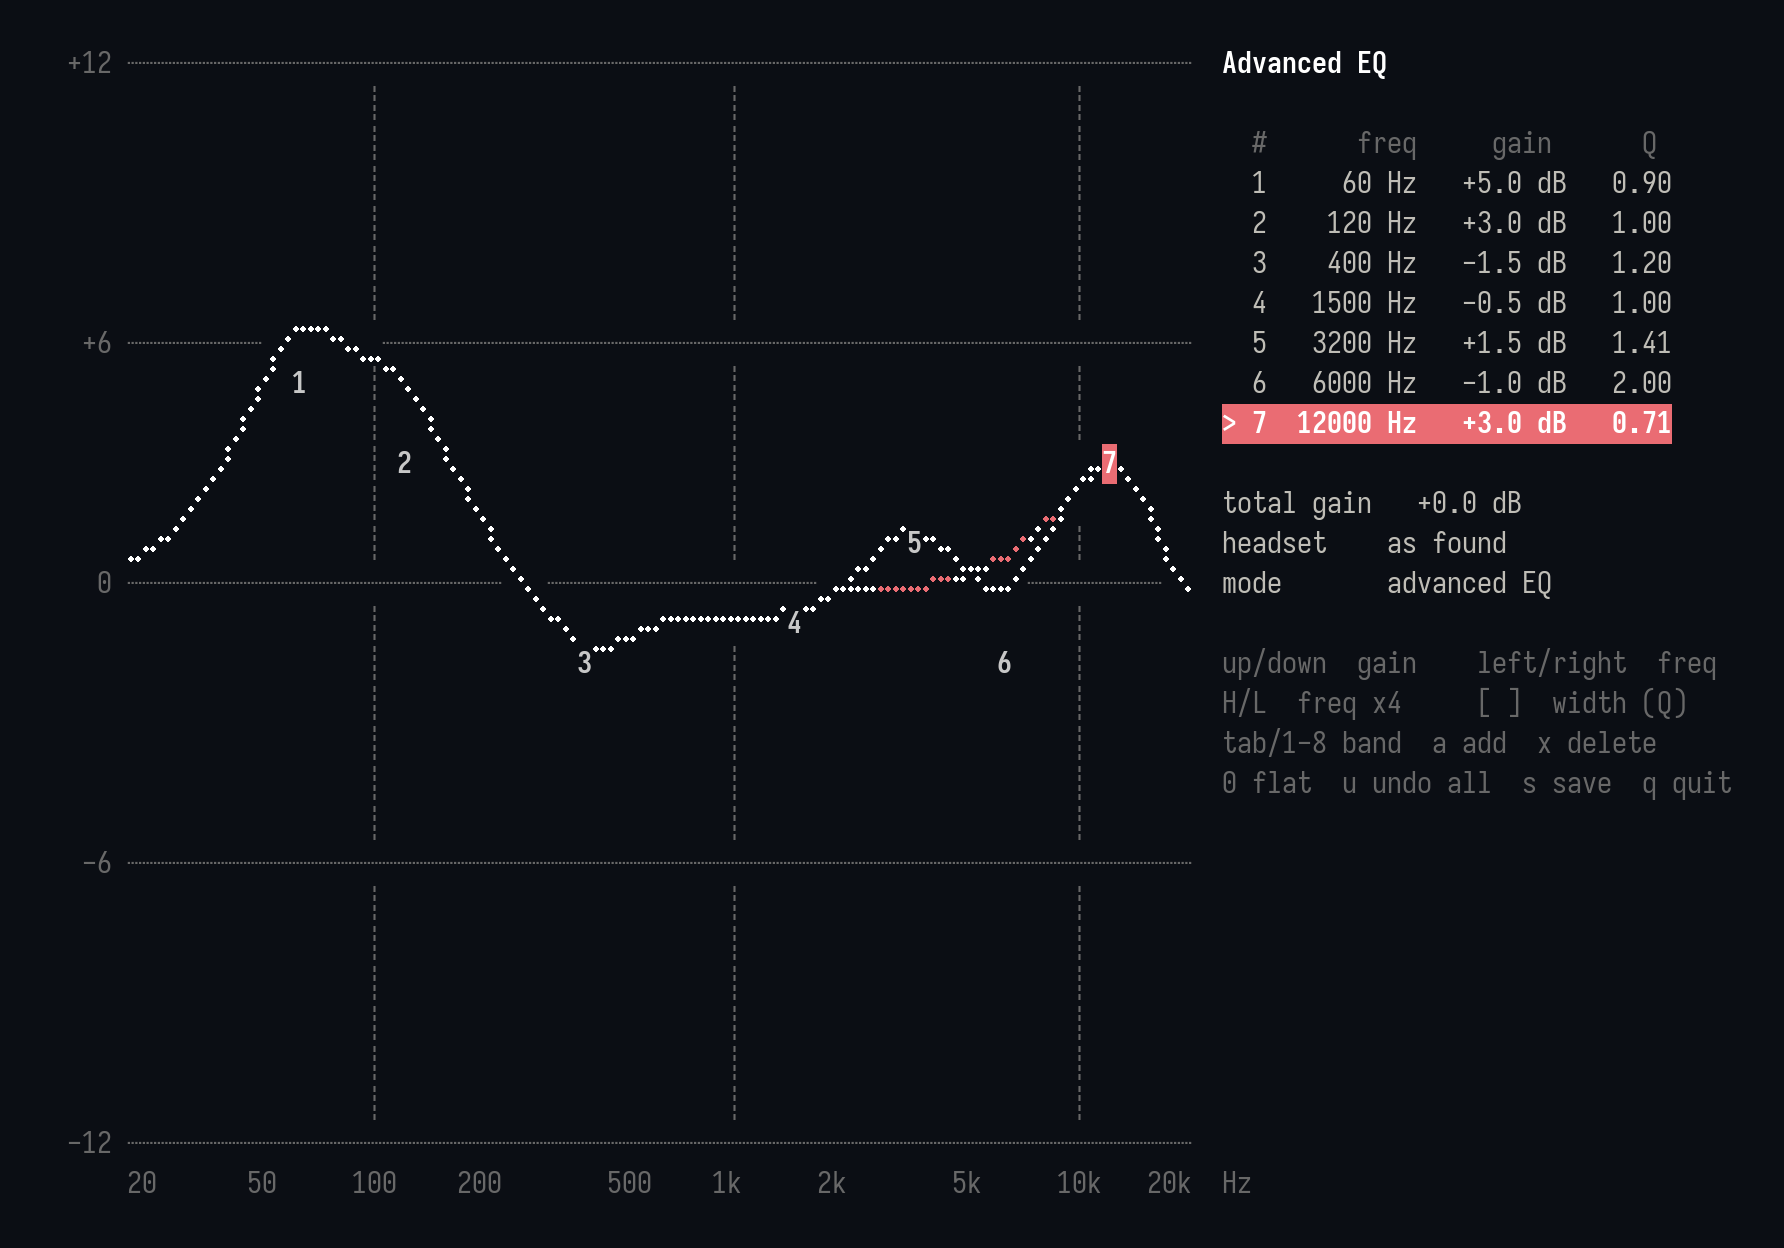
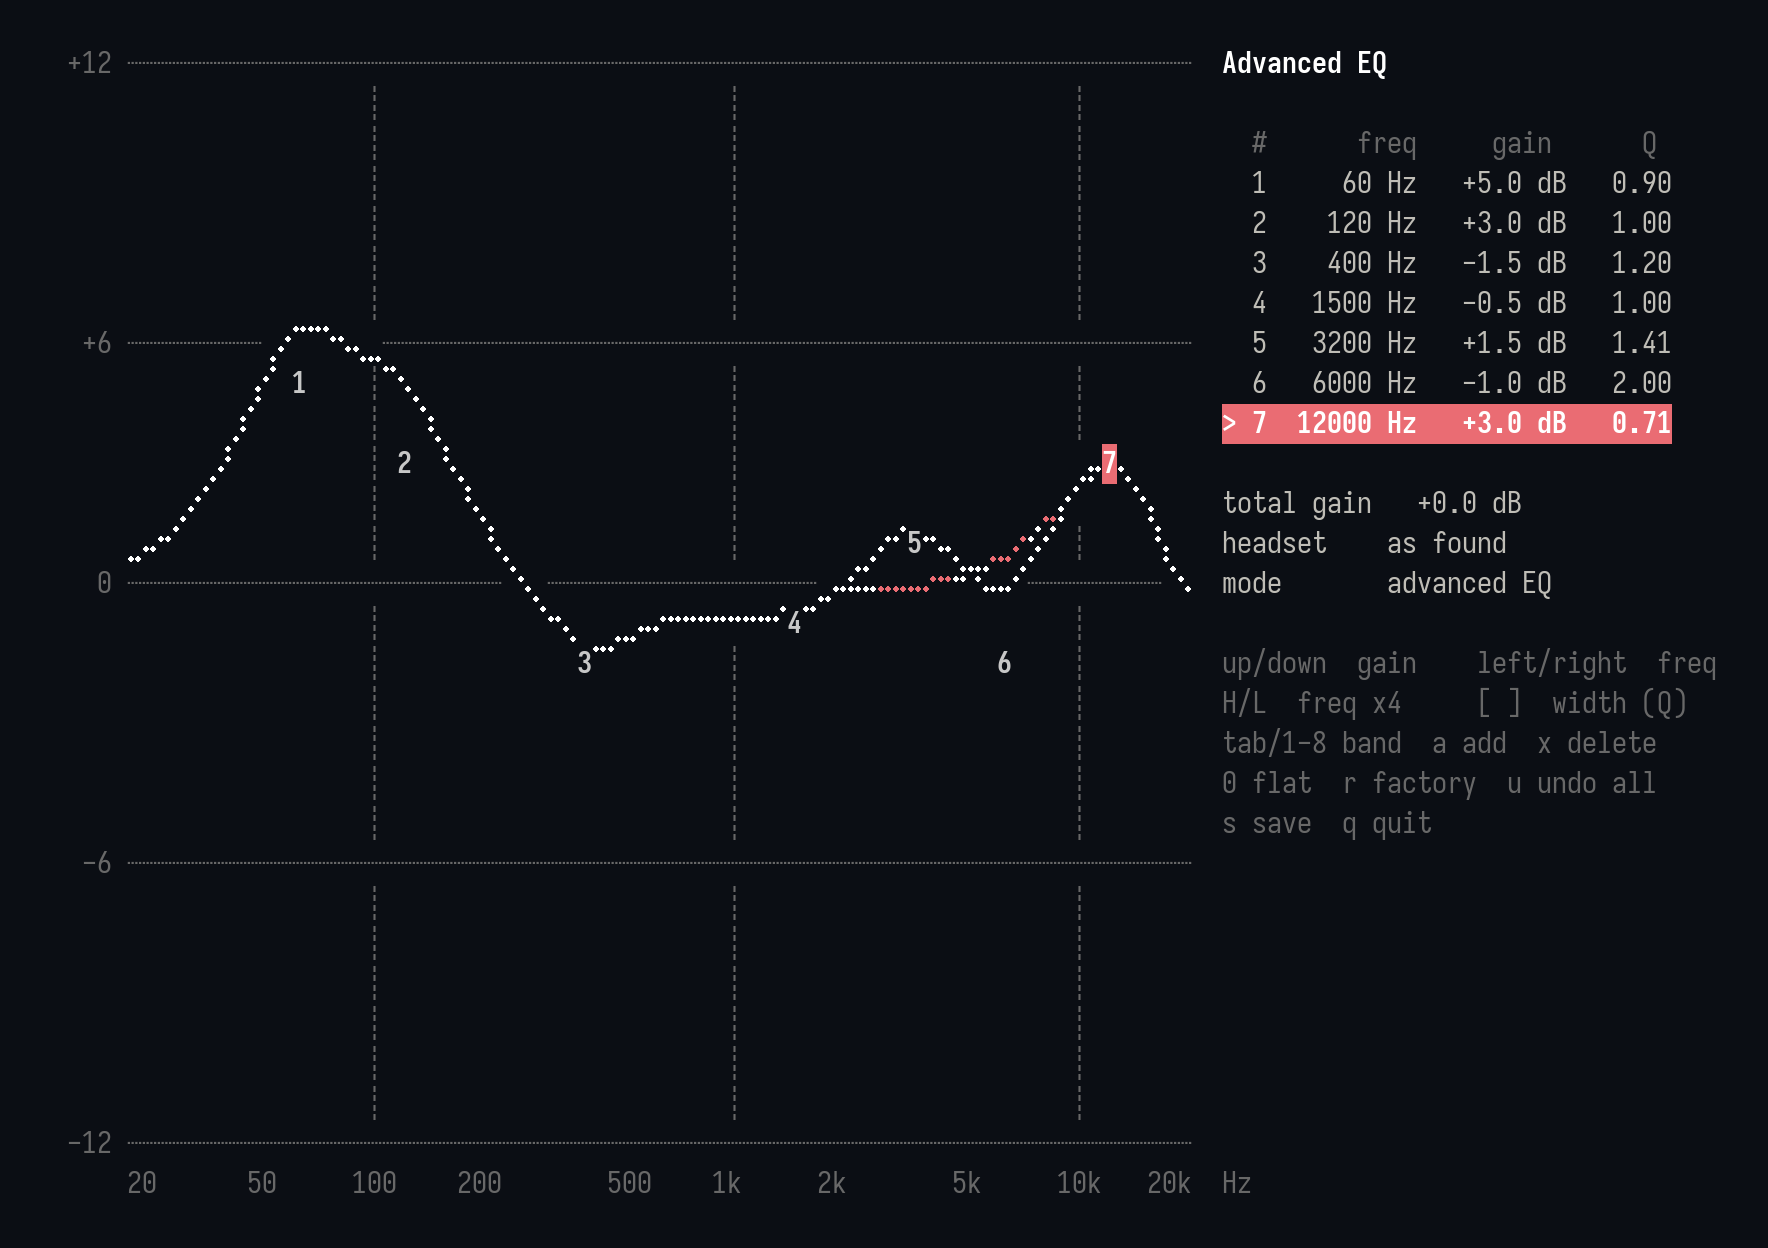
eq edit: r starts again from the factory curve
Checked on a B170: the factory curve is sent and read back.

diff --git a/src/eqedit.rs b/src/eqedit.rs
@@ -150,6 +150,16 @@ impl Editor {
                 self.selected = self.selected.min(self.bands.len() - 1);
                 return Outcome::Reverted;
             }
+            Key::Char('r') => {
+                // The vendor app's factory curve, as `eq reset` writes it.
+                let factory = eqfile::factory();
+                if self.bands == factory {
+                    return Outcome::Nothing;
+                }
+                self.bands = factory;
+                self.selected = 0;
+                true
+            }
             Key::Char('s') => return Outcome::Save,
             Key::Char('q') => return Outcome::Quit,
             _ => false,
@@ -356,7 +366,8 @@ pub fn render(
         "up/down  gain    left/right  freq",
         "H/L  freq x4     [ ]  width (Q)",
         "tab/1-8 band  a add  x delete",
-        "0 flat  u undo all  s save  q quit",
+        "0 flat  r factory  u undo all",
+        "s save  q quit",
     ] {
         panel.push(format!("{GRID}{k}{RESET}"));
     }
@@ -514,6 +525,18 @@ mod tests {
         assert_eq!(ed.handle(Key::Char('u')), Outcome::Reverted);
         assert!(ed.is_original());
         assert_eq!(ed.handle(Key::Char('u')), Outcome::Nothing);
+    }
+
+    #[test]
+    fn factory_reset_then_undo() {
+        let mut ed = Editor::new(vec![band(58.0, -1.0, 1.0), band(440.0, 6.0, 1.0), band(6600.0, -6.0, 1.0)]);
+        ed.selected = 2;
+        assert_eq!(ed.handle(Key::Char('r')), Outcome::Changed);
+        assert_eq!(ed.bands, eqfile::factory());
+        assert_eq!(ed.selected, 0);
+        assert_eq!(ed.handle(Key::Char('r')), Outcome::Nothing, "already the factory curve");
+        assert_eq!(ed.handle(Key::Char('u')), Outcome::Reverted);
+        assert_eq!(ed.bands[1].gain, 6.0);
     }
 
     fn visible(s: &str) -> String {

diff --git a/src/main.rs b/src/main.rs
@@ -275,6 +275,7 @@ enum EqAction {
         tab/shift+tab, 1-8 select a band\n  \
         a / x              add a flat band / delete the selected one\n  \
         0                  set the selected band flat\n  \
+        r                  the vendor app's factory curve (three flat bands)\n  \
         u                  undo everything: the starting curve, and the preset if it was in use\n  \
         s                  save the curve to FILE\n  \
         q, Ctrl+C          quit, keeping the curve on the headset\n\n\

diff --git a/README.md b/README.md
@@ -221,8 +221,8 @@ trade-off is the one of any permanent owner, described above.
 **Your own EQ curve.** The advanced EQ takes up to 8 peaking bands. `nothing eq edit` draws
 the response in the terminal and sends each change to the headset as you make it: arrows move
 the selected band (gain up and down, frequency left and right), `[` `]` change its width,
-`a`/`x` add or delete a band, `u` puts everything back as it was, `s` saves the curve to a
-file, `q` quits and keeps it. Other `nothing` commands keep working meanwhile.
+`a`/`x` add or delete a band, `r` starts again from the factory curve, `u` puts everything back
+as it was, `s` saves the curve to a file, `q` quits and keeps it. Other `nothing` commands keep working meanwhile.
 
 Or edit it band by band, or load a whole curve, for example an
 [AutoEQ](https://github.com/jaakkopasanen/AutoEq) `ParametricEQ.txt` (peaking filters only, at

diff --git a/CHANGELOG.md b/CHANGELOG.md
@@ -4,8 +4,8 @@
 
 - **`eq edit`**: an interactive editor for the advanced EQ. It draws the response curve in the
   terminal, highlights the selected band's own shape, and sends each change to the headset
-  0.3 s after the last key, then reads it back. `u` restores the starting curve, and the preset
-  if one was in use; `s` saves the curve to a file. It owns the channel while it runs, so other
+  0.3 s after the last key, then reads it back. `r` starts again from the factory curve, `u`
+  restores the starting curve and the preset if one was in use; `s` saves the curve to a file. It owns the channel while it runs, so other
   commands (the ANC key) keep working. Tested on a B170: a change sent and read back, read
   through the socket by a second command, undone with `u`, and sent when quitting right after a
   key.
